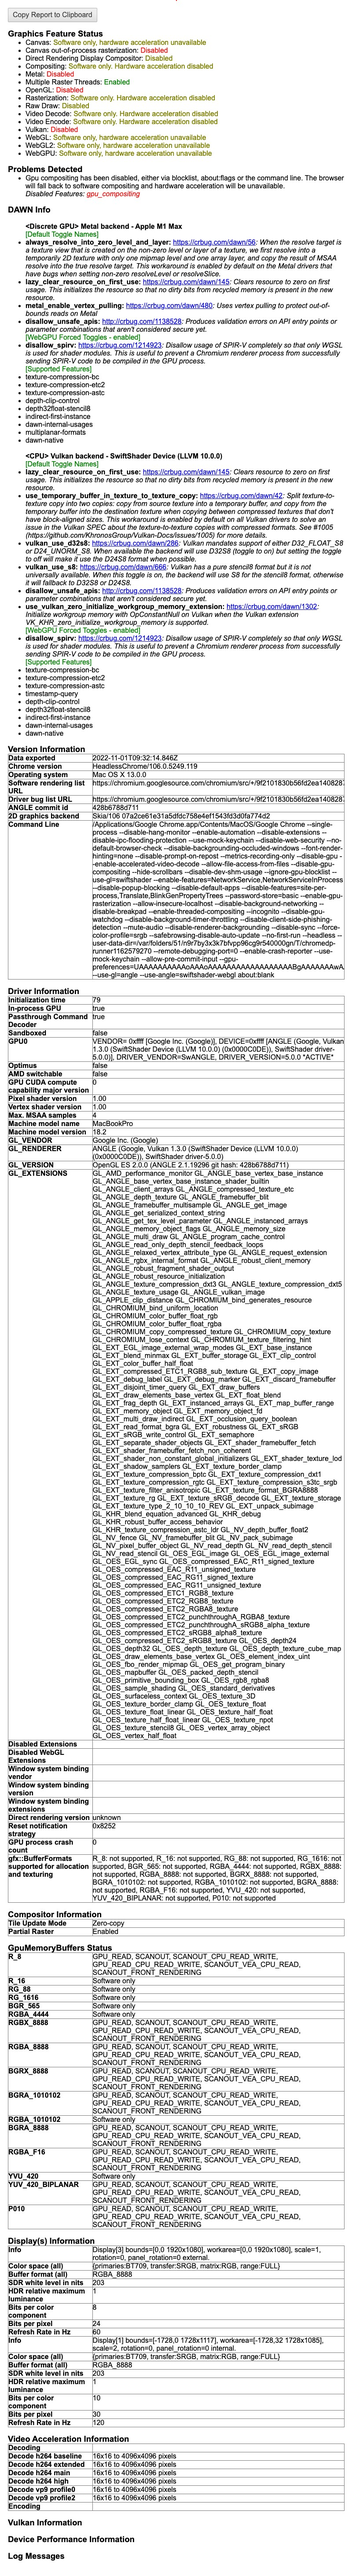
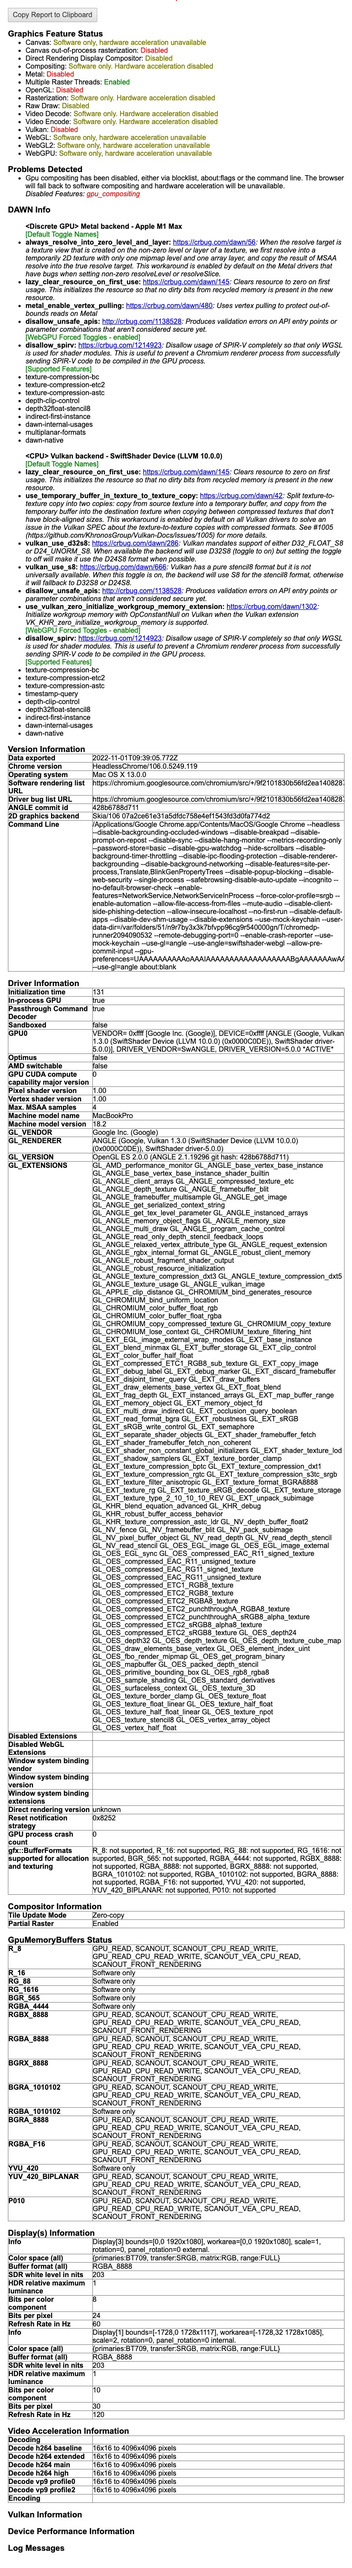
updated

Changed region(s): [[0.0, 0.0, 0.9688, 0.9979]]

diff --git a/main.go b/main.go
@@ -32,22 +32,22 @@ func main() {
 		chromedp.DefaultExecAllocatorOptions[:],
 
 		//chromedp.Headless,
-		chromedp.DisableGPU,
+		// chromedp.DisableGPU,
 
 		// chromedp.NoSandbox,
-		chromedp.Flag("font-render-hinting", "none"),
-		chromedp.Flag("ignore-gpu-blocklist", true),
-		chromedp.Flag("enable-accelerated-video-decode", true),
-		chromedp.Flag("enable-gpu-rasterization", true),
+		//chromedp.Flag("font-render-hinting", "none"),
+		//chromedp.Flag("ignore-gpu-blocklist", true),
+		//chromedp.Flag("enable-accelerated-video-decode", true),
+		//chromedp.Flag("enable-gpu-rasterization", true),
 
-		chromedp.Flag("use-gl", "swiftshader"),
-		chromedp.Flag("enable-threaded-compositing", true),
+		// chromedp.Flag("use-gl", "swiftshader"),
+		//chromedp.Flag("enable-threaded-compositing", true),
 
 		chromedp.Flag("allow-insecure-localhost", true),
 		chromedp.Flag("disable-web-security", true),
 		chromedp.Flag("allow-file-access-from-files", true),
 
-		chromedp.Flag("disable-gpu-compositing", true),
+		//chromedp.Flag("disable-gpu-compositing", true),
 		chromedp.Flag("incognito", true),
 
 		chromedp.Flag("disable-gpu-watchdog", true),
